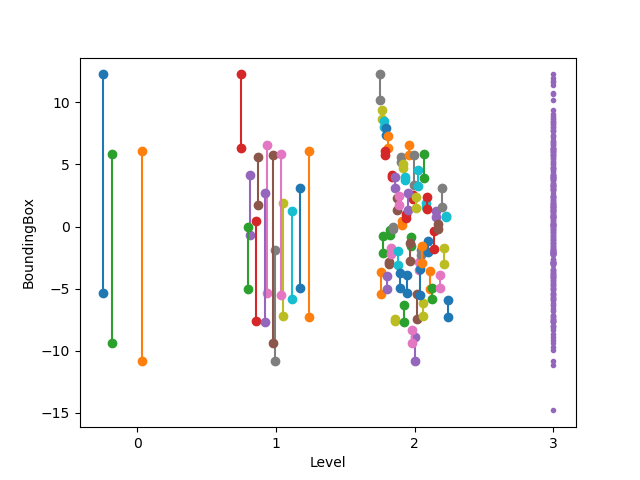
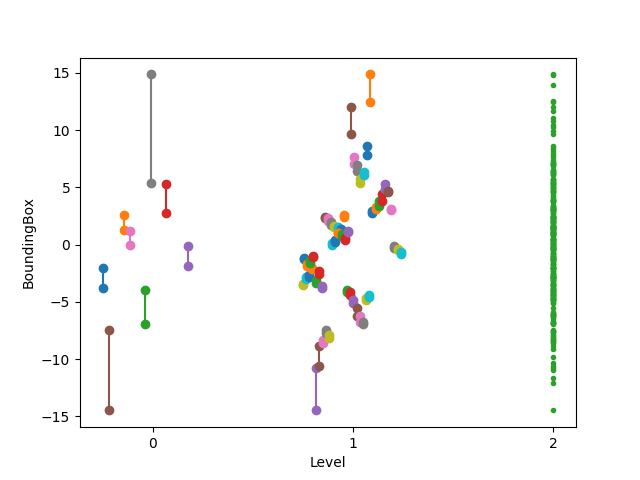
fix: split_node algorithm's new pair node doesn't have pair node as it's parent
change sample image to clean one

remove bound_type::merge with point_type

add more unit test with rtree::insert() ( specially parent & valid range
check )

diff --git a/test/rtree.cpp b/test/rtree.cpp
@@ -4,6 +4,7 @@
 #include <map>
 #include <vector>
 #include <algorithm>
+#include <random>
 
 namespace er = eh::rtree;
 
@@ -12,44 +13,48 @@ TEST( RTreeTest, QuadraticSplit )
   using rtree_type = er::RTree<er::bound_t<int>,int>;
   using node_type = rtree_type::node_type;
   node_type *root = new node_type;
+  node_type *parent = new node_type;
+  root->add_child( {0,1}, parent );
 
   for( int i=1; i<=rtree_type::MAX_ENTRIES+1; ++i )
   {
     node_type *data_node = new node_type;
     data_node->data() = i;
 
-    root->add_child( er::bound_t<int>(i,i+1), data_node );
+    parent->add_child( er::bound_t<int>(i,i+1), data_node );
   }
-  ASSERT_EQ( root->size(), rtree_type::MAX_ENTRIES+1 );
+  ASSERT_EQ( parent->size(), rtree_type::MAX_ENTRIES+1 );
 
-  auto spliter = rtree_type::split_quadratic_t{};
-  auto [a, b] = spliter.pick_seed( root );
-  ASSERT_GE( a, root->begin() );
-  ASSERT_LT( a, root->end() );
-  ASSERT_GE( b, root->begin() );
-  ASSERT_LT( b, root->end() );
-
-  auto *pair = rtree_type::split_quadratic_t{}( root );
+  auto *pair = rtree_type::quadratic_split_t{}( parent );
   ASSERT_TRUE( pair );
 
-  EXPECT_GE( root->size(), rtree_type::MIN_ENTRIES );
-  EXPECT_LE( root->size(), rtree_type::MAX_ENTRIES );
+  EXPECT_GE( parent->size(), rtree_type::MIN_ENTRIES );
+  EXPECT_LE( parent->size(), rtree_type::MAX_ENTRIES );
   EXPECT_GE( pair->size(), rtree_type::MIN_ENTRIES );
   EXPECT_LE( pair->size(), rtree_type::MAX_ENTRIES );
-  EXPECT_EQ( root->size()+pair->size(), rtree_type::MAX_ENTRIES+1 );
+  EXPECT_EQ( parent->size()+pair->size(), rtree_type::MAX_ENTRIES+1 );
+
+  ASSERT_EQ( parent->parent(), root );
+  for( auto &c : *parent )
+  {
+    ASSERT_TRUE( c.second );
+    ASSERT_EQ( c.second->parent(), parent );
+  }
+  ASSERT_EQ( pair->parent(), nullptr );
+  for( auto &c : *pair )
+  {
+    ASSERT_TRUE( c.second );
+    ASSERT_EQ( c.second->parent(), pair );
+  }
 
 
   std::map<int,int> child_exist_map;
-  for( auto c : *root )
+  for( auto c : *parent )
   {
-    EXPECT_TRUE( c.second );
-
     child_exist_map[ c.second->data() ] = 10000;
   }
   for( auto c : *pair )
   {
-    EXPECT_TRUE( c.second );
-
     child_exist_map[ c.second->data() ] = 10000;
   }
   EXPECT_EQ( child_exist_map.size(), rtree_type::MAX_ENTRIES+1 );
@@ -94,35 +99,44 @@ TEST( RTreeTest, Insert )
     }
   };
 
-  vector_expect( rtree_to_sorted_vec(rtree), {} );
+  std::vector<int> expected;
+  for( int i=0; i<100; ++i )
+  {
+    rtree.insert( {i,i+1}, i );
+    expected.push_back( i );
+    vector_expect(expected, rtree_to_sorted_vec(rtree));
+  }
+}
 
-  rtree.insert( {0,1}, 5 );
-  vector_expect( rtree_to_sorted_vec(rtree), {5} );
+TEST( RTreeTest, double_RTree_range_test )
+{
+  using rtree_type = er::RTree<er::bound_t<double>,int>;
+  using bound_type = rtree_type::bound_type;
 
-  rtree.insert( {2,3}, 10 );
-  vector_expect( rtree_to_sorted_vec(rtree), {5,10} );
+  rtree_type tree;
 
-  rtree.insert( {3,4}, 0);
-  vector_expect( rtree_to_sorted_vec(rtree), {0,5,10} );
+  std::mt19937 mt( std::random_device{}() );
+  std::normal_distribution<double> dist( 0, 5 );
 
-  rtree.insert( {3,4}, 0);
-  vector_expect( rtree_to_sorted_vec(rtree), {0,0,5,10} );
+  for( int i=0; i<100; ++i )
+  {
+    double p = dist( mt );
+    double end = p + 1e-2;
 
-  rtree.insert( {3,4}, 0);
-  vector_expect( rtree_to_sorted_vec(rtree), {0,0,0,5,10} );
+    tree.insert( {p,end}, i );
 
-  rtree.insert( {3,4}, 20);
-  vector_expect( rtree_to_sorted_vec(rtree), {0,0,0,5,10,20} );
+    tree.iterate_node(
+      [&]( rtree_type::node_type *node )
+      {
+        if( node->level() >= tree.leaves_level() ){ return; }
+        for( auto &c : *node )
+        {
+          auto a = c.first;
+          auto b = c.second->bound();
+          ASSERT_TRUE( c.first.is_inside(c.second->bound()) ) << a.min_bound() << ", " << a.max_bound() << " : " << b.min_bound() << ", " << b.max_bound();
+        }
+      }
+    );
+  }
 
-  rtree.insert( {3,4}, 20);
-  vector_expect( rtree_to_sorted_vec(rtree), {0,0,0,5,10,20,20} );
-
-  rtree.insert( {3,4}, 20);
-  vector_expect( rtree_to_sorted_vec(rtree), {0,0,0,5,10,20,20, 20} );
-
-  rtree.insert( {3,4}, 30);
-  vector_expect( rtree_to_sorted_vec(rtree), {0,0,0,5,10,20,20,20, 30} );
-
-  rtree.insert( {3,4}, 30);
-  vector_expect( rtree_to_sorted_vec(rtree), {0,0,0,5,10,20,20,20, 30, 30} );
 }

diff --git a/include/RTree/rtree.hpp b/include/RTree/rtree.hpp
@@ -125,10 +125,10 @@ public:
     // union bouinding box of children
     bound_type bound() const
     {
-      bound_type merged;
-      for( auto &c : _child )
+      bound_type merged = _child[0].first;
+      for( int i=1; i<_child.size(); ++i )
       {
-        merged = merged.merged( c.first );
+        merged = merged.merged( _child[i].first );
       }
       return merged;
     }
@@ -365,7 +365,24 @@ public:
     }
   }
 
-  struct split_quadratic_t
+  // split nodes 'as-is'
+  struct just_split_t
+  {
+    node_type *operator()( node_type *node ) const
+    {
+      node_type *new_node = new node_type;
+      for( int i=node->size()-MIN_ENTRIES; i<node->size(); ++i )
+      {
+        new_node->add_child( node->_child[i].first, node->_child[i].second );
+      }
+      node->_child.erase( node->_child.end()-MIN_ENTRIES, node->_child.end() );
+
+      return new_node;
+    }
+  };
+
+  // quadratic split algorithm
+  struct quadratic_split_t
   {
     std::pair<typename node_type::child_iterator,typename node_type::child_iterator> pick_seed( node_type *node ) const
     {
@@ -434,7 +451,7 @@ public:
       Repeat from QS2.
       */
       std::vector<std::pair<bound_type,node_type*>> entry1, entry2;
-      bound_type bound1, bound2;
+      bound_type bound1={0,0}, bound2={0,0};
       
       {
         auto seeds = pick_seed( parent );
@@ -499,13 +516,21 @@ public:
         }
       }
 
-      parent->_child.assign( entry1.begin(), entry1.end() );
+      for( auto &e1 : entry1 )
+      {
+        parent->add_child( e1.first, e1.second );
+      }
       node_type *node_pair = new node_type;
-      node_pair->_child.assign( entry2.begin(), entry2.end() );
+      for( auto &e2 : entry2 )
+      {
+        node_pair->add_child( e2.first, e2.second );
+      }
 
       return node_pair;
     }
   };
+
+  using splitter_t = quadratic_split_t;
 
   // 'parent' contains MAX_ENTRIES+1 nodes;
   // split into two nodes
@@ -513,7 +538,7 @@ public:
   node_type* split( node_type *parent )
   {
     // @TODO another split scheme
-    split_quadratic_t spliter;
+    splitter_t spliter;
     return spliter( parent );
   }
 
@@ -541,11 +566,26 @@ protected:
     }
     return false;
   }
+  template < typename Functor >
+  void iterate_node_wrapper( Functor functor, node_type *node ) const
+  {
+    functor(node);
+    for( auto &c : *node )
+    {
+      iterate_node_wrapper( functor, c.second );
+    }
+  }
 public:
   template < typename Functor >
   void iterate( Functor functor ) const
   {
     iterate_wrapper( functor, _root, 0 );
+  }
+
+  template < typename Functor >
+  void iterate_node( Functor functor ) const
+  {
+    iterate_node_wrapper( functor, _root );
   }
 };
 

diff --git a/test/bound.cpp b/test/bound.cpp
@@ -210,21 +210,6 @@ TEST( BoundTest, Merge )
   EXPECT_EQ( merged.min_bound(), 0 );
   EXPECT_EQ( merged.max_bound(), 11 );
 
-  merged = left.merged( 3 );
-  EXPECT_EQ( merged.min_bound(), 0 );
-  EXPECT_EQ( merged.max_bound(), 3 );
-  merged = left.merged( 0 );
-  EXPECT_EQ( merged.min_bound(), 0 );
-  EXPECT_EQ( merged.max_bound(), 3 );
-
-  merged = left.merged( -1 );
-  EXPECT_EQ( merged.min_bound(), -1 );
-  EXPECT_EQ( merged.max_bound(), 3 );
-
-  merged = left.merged( 5 );
-  EXPECT_EQ( merged.min_bound(), 0 );
-  EXPECT_EQ( merged.max_bound(), 5 );
-
   left = ibound_type( 0, 6 );
   right = ibound_type( 3, 10 );
   merged = left.merged( right );
@@ -243,14 +228,6 @@ TEST( BoundTest, Merge )
   merged = right.merged( left );
   EXPECT_EQ( merged.min_bound(), 0 );
   EXPECT_EQ( merged.max_bound(), 10 );
-
-  left = ibound_type();
-  merged = left.merged( right );
-  EXPECT_EQ( merged.min_bound(), right.min_bound() );
-  EXPECT_EQ( merged.max_bound(), right.max_bound() );
-  merged = right.merged( left );
-  EXPECT_EQ( merged.min_bound(), right.min_bound() );
-  EXPECT_EQ( merged.max_bound(), right.max_bound() );
 }
 
 TEST( BoundTest, Merge_f )
@@ -265,21 +242,6 @@ TEST( BoundTest, Merge_f )
   merged = right.merged( left );
   EXPECT_FLOAT_EQ( merged.min_bound(), 0 );
   EXPECT_FLOAT_EQ( merged.max_bound(), 11 );
-
-  merged = left.merged( 3 );
-  EXPECT_FLOAT_EQ( merged.min_bound(), 0 );
-  EXPECT_FLOAT_EQ( merged.max_bound(), 3 );
-  merged = left.merged( 0 );
-  EXPECT_FLOAT_EQ( merged.min_bound(), 0 );
-  EXPECT_FLOAT_EQ( merged.max_bound(), 3 );
-
-  merged = left.merged( -1 );
-  EXPECT_FLOAT_EQ( merged.min_bound(), -1 );
-  EXPECT_FLOAT_EQ( merged.max_bound(), 3 );
-
-  merged = left.merged( 5 );
-  EXPECT_FLOAT_EQ( merged.min_bound(), 0 );
-  EXPECT_FLOAT_EQ( merged.max_bound(), 5 );
 
   left = fbound_type( 0, 6 );
   right = fbound_type( 3, 10 );
@@ -299,14 +261,6 @@ TEST( BoundTest, Merge_f )
   merged = right.merged( left );
   EXPECT_FLOAT_EQ( merged.min_bound(), 0 );
   EXPECT_FLOAT_EQ( merged.max_bound(), 10 );
-
-  left = fbound_type();
-  merged = left.merged( right );
-  EXPECT_FLOAT_EQ( merged.min_bound(), right.min_bound() );
-  EXPECT_FLOAT_EQ( merged.max_bound(), right.max_bound() );
-  merged = right.merged( left );
-  EXPECT_FLOAT_EQ( merged.min_bound(), right.min_bound() );
-  EXPECT_FLOAT_EQ( merged.max_bound(), right.max_bound() );
 }
 
 TEST( BoundTest, Area )

diff --git a/include/RTree/bound.hpp b/include/RTree/bound.hpp
@@ -17,11 +17,6 @@ protected:
   point_type _min, _max;
 
 public:
-  bound_t()
-    : _min( std::numeric_limits<point_type>::max() ),
-      _max( std::numeric_limits<point_type>::lowest() )
-  {
-  }
   bound_t( point_type const& __min, point_type const& __max )
     : _min(__min),
       _max(__max)
@@ -69,11 +64,6 @@ public:
   bound_t merged( bound_t const& b ) const
   {
     return { std::min(_min,b.min_bound()), std::max(_max,b.max_bound()) };
-  }
-
-  bound_t merged( point_type const& p ) const
-  {
-    return { std::min(_min,p), std::max(_max,p) };
   }
 
   bound_t intersection( bound_t const& b ) const
